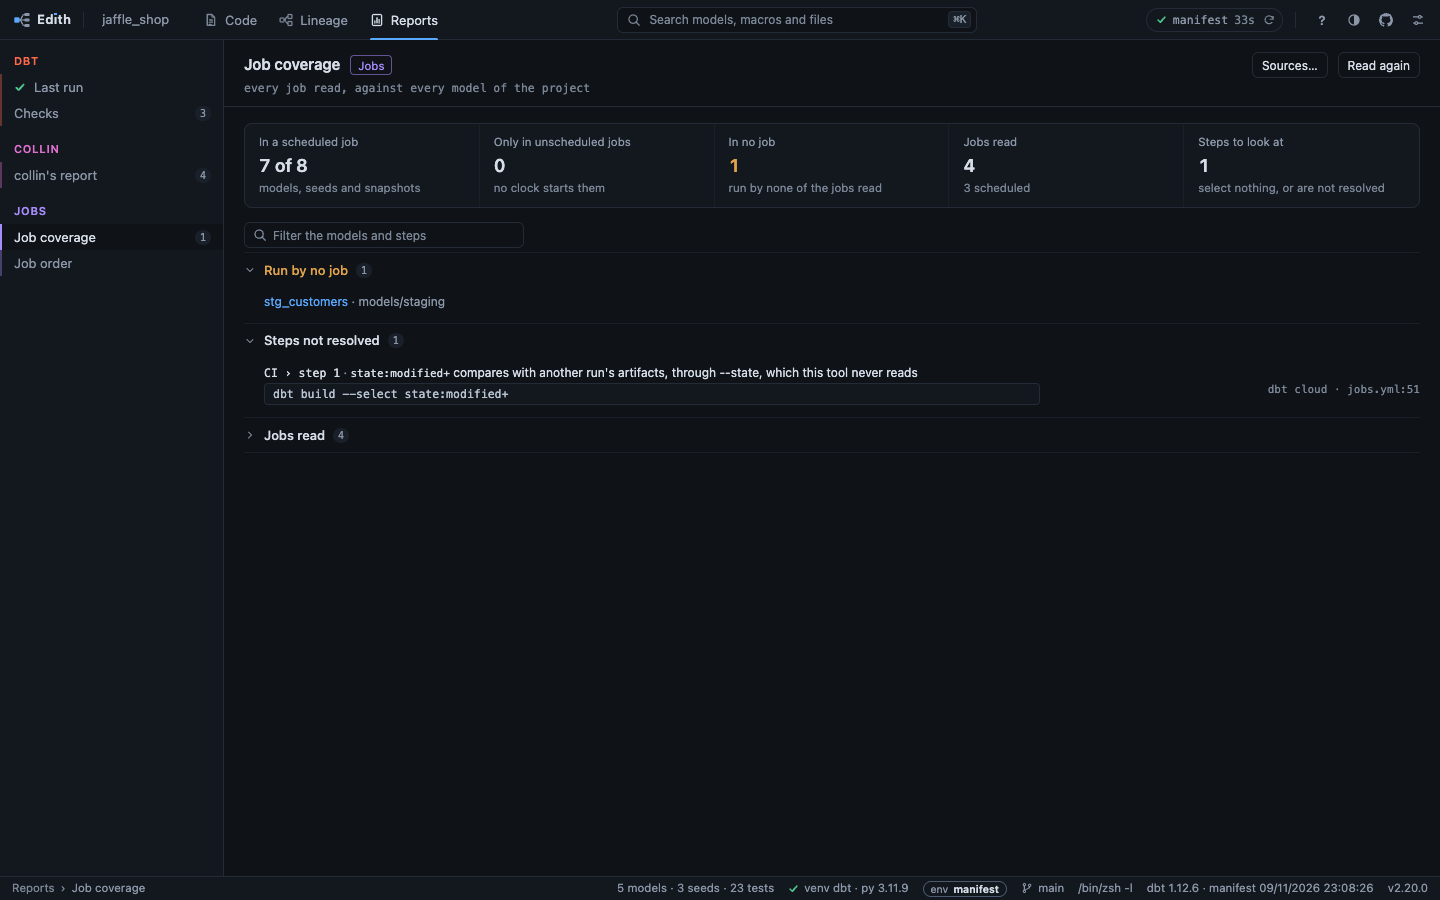
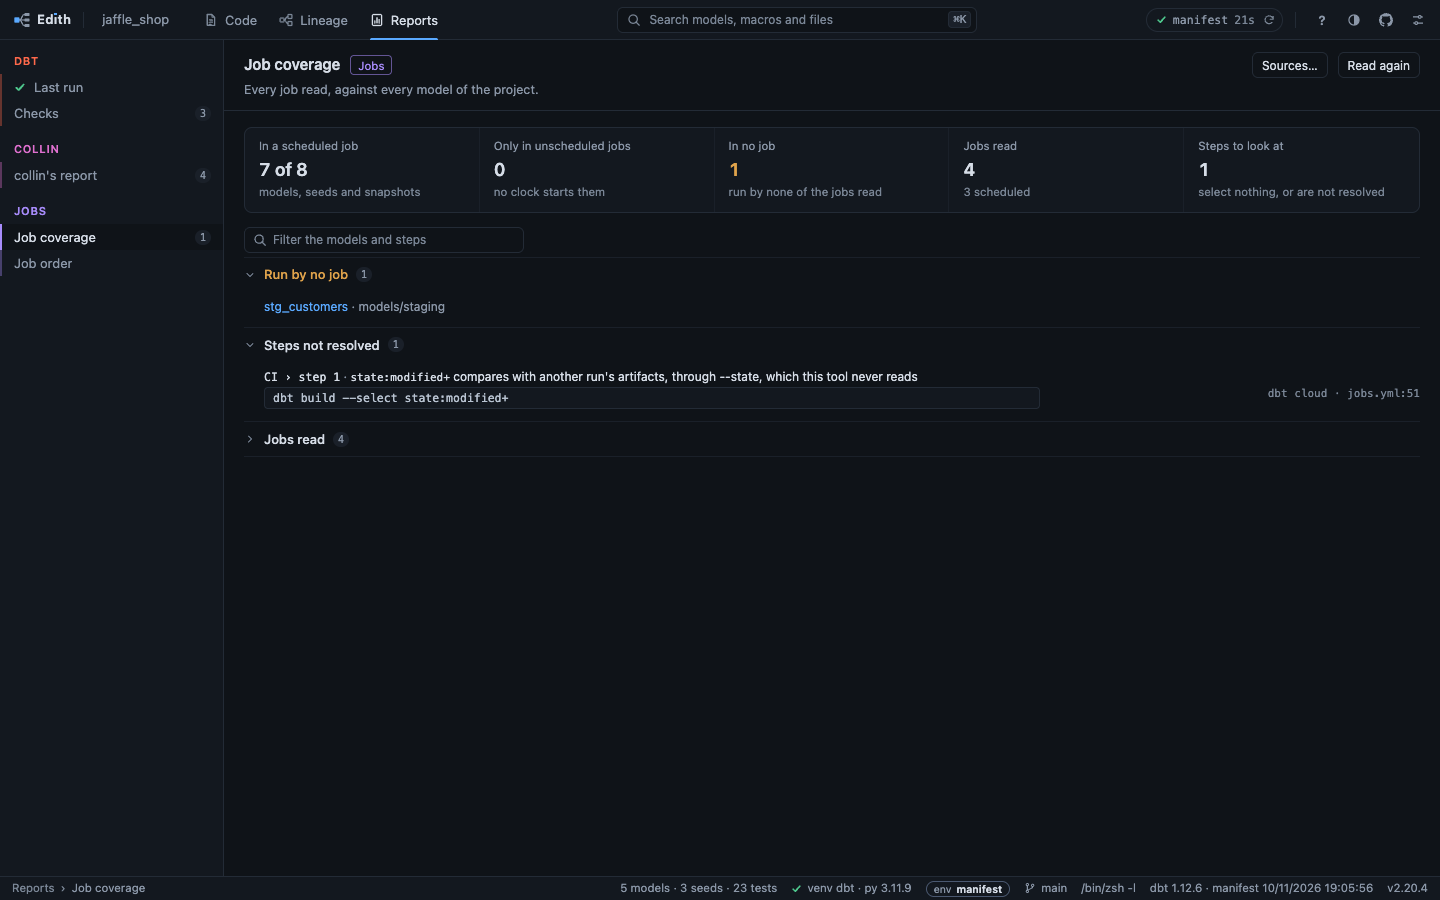
Write the job reports' head line as a sentence
The line under a Reports section's head says what the section was read
from, a path, a version or a time, in the code font. Job coverage and Job
order have no file to name: theirs is a sentence about what the section
compares, and it was written in the code font too, in lower case and
without a full stop. reportHead now takes `prose`, which writes that line
in the interface's font at the page's line height, and the two sections
give the design's sentences.

The test that decides whether a fold's count is drawn as a pill moves
into reportCounted, unchanged, so the harness reads it, with the cases a
pill and a phrase are told apart by.

diff --git a/web/app.js b/web/app.js
@@ -12816,8 +12816,10 @@ function paintReportStale() {
 }
 
 /* The head every section shares: what it is, what it was read from, and its
-   buttons, Read again saying when the file has changed since. */
-function reportHead({ title, tool, tone, about, again, extra = [] }) {
+   buttons, Read again saying when the file has changed since. The line under
+   it is mono when it says what was read (a path, a version, a time) and
+   `prose` when it is a sentence about the section. */
+function reportHead({ title, tool, tone, about, prose = false, again, extra = [] }) {
   const head = jel('div', 'rhead');
   const row = jel('div', 'rhead-row');
   row.append(jel('span', 'ttl', title));
@@ -12845,7 +12847,7 @@ function reportHead({ title, tool, tone, about, again, extra = [] }) {
   head.append(row);
   // What it was read from, on a line of its own; a section with nothing to say
   // of that has no line.
-  if (about) head.append(jel('div', 'sub', about));
+  if (about) head.append(jel('div', prose ? 'sub prose' : 'sub', about));
   return head;
 }
 
@@ -12978,6 +12980,13 @@ function reportFolderSummary(text) {
   return sum;
 }
 
+/* Whether a fold's count is a number to draw as a pill ("12", "3 of 12",
+   "1,204 of 3,000"). A phrase in its place (a macro's "used by 3 models, 2
+   tests") stays text, which a pill would squeeze. */
+function reportCounted(count) {
+  return /^\d[\d,. ]*(of \d[\d,. ]*)?$/.test(String(count || ''));
+}
+
 /* A fold as reportFiltered hands it back: its title and count, then its lever.
    Its list is the caller's, appended to it. A finding that has a severity
    (collin's) says it in a tag after the count. Opened or shut by the reader,
@@ -12987,10 +12996,7 @@ function reportFold(f) {
   d.open = f.open;
   if (f.tone) d.dataset.tone = f.tone;
   const sum = jel('summary', '');
-  // A count is a pill; a phrase in its place (a macro's "used by 3 models, 2
-  // tests") stays text, which a pill would squeeze.
-  const counted = /^\d[\d,. ]*(of \d[\d,. ]*)?$/.test(String(f.count || ''));
-  sum.append(reportChevron(), jel('span', 'rtitle', f.title), jel('span', counted ? 'tabbadge rcount' : 'rcount', f.count));
+  sum.append(reportChevron(), jel('span', 'rtitle', f.title), jel('span', reportCounted(f.count) ? 'tabbadge rcount' : 'rcount', f.count));
   if (f.severity) sum.append(jel('span', 'sevtag', f.severity));
   sum.addEventListener('click', () => { d.dataset.touched = '1'; });
   d.append(sum);
@@ -13540,7 +13546,7 @@ async function jobsCoverageSection(again) {
   const sources = jel('button', 'btn sm', 'Sources…');
   sources.title = 'Where the jobs are read from, and how';
   sources.addEventListener('click', openJobSources);
-  const head = reportHead({ title: 'Job coverage', tool: 'jobs', about: 'every job read, against every model of the project',
+  const head = reportHead({ title: 'Job coverage', tool: 'jobs', about: 'Every job read, against every model of the project.', prose: true,
     again, extra: [sources] });
   // The job files are looked at as the section opens, never on a click in it
   // (0063).
@@ -13844,7 +13850,7 @@ function jobOrderFoldList(hits, d) {
 }
 
 async function jobOrderSection(again) {
-  const head = reportHead({ title: 'Job order', tool: 'jobs', about: 'what each step builds, against what the job files order before it', again });
+  const head = reportHead({ title: 'Job order', tool: 'jobs', about: 'What each step builds, against what the job files order before it.', prose: true, again });
   // The job files are looked at as the section opens, never on a click in it
   // (0063).
   let order;

diff --git a/web/tests/reports.js b/web/tests/reports.js
@@ -409,3 +409,20 @@ var withAbout = reportHead({ title: 'T', tool: 'dbt', about: 'read from run_resu
 check('what it was read from is a line of its own under the row, with a rule under the head',
   [withAbout.className, withAbout.children.map(function (c) { return c.className; }), withAbout.children[1].textContent], ['rhead', ['rhead-row', 'sub'], 'read from run_results.json']);
 check('a section with nothing to say of that has no line, and none is made up', reportHead({ title: 'T', tool: 'dbt' }).children.length, 1);
+check('a sentence about the section is a prose line; what was read stays the plain mono one',
+  [reportHead({ title: 'T', tool: 'jobs', about: 'A sentence.', prose: true }).children[1].className, withAbout.children[1].className], ['sub prose', 'sub']);
+// The two callers cannot be run here (they read the job files), so their source is pinned.
+function callerSource(name) { var at = app.indexOf('async function ' + name); return app.slice(at, app.indexOf('\nasync function ', at + 1) < 0 ? undefined : app.indexOf('\nasync function ', at + 1)); }
+check('Job coverage and Job order each ask for the prose line',
+  ['jobsCoverageSection', 'jobOrderSection'].map(function (n) { return /reportHead\(\{[^}]*prose: true/.test(callerSource(n)); }), [true, true]);
+var proseRule = /\.rhead \.sub\.prose \{[^}]*font:[^;}]*var\(--ui\)/.test(read('web/app.css'));
+check('the prose line is drawn in the UI font', proseRule, true);
+check('prose without a line says nothing', reportHead({ title: 'T', tool: 'jobs', prose: true }).children.length, 1);
+
+print('\n--- a fold\'s count: a pill or text ---');
+eval(app.slice(app.indexOf('function reportCounted'), app.indexOf('/* A fold as reportFiltered')));
+check('a number, a thousands separator (comma or space) and "n of m" are pills',
+  ['12', '0', '1,234', '1 234', '3 of 12', '1,204 of 3,000'].map(reportCounted), [true, true, true, true, true, true]);
+check('the number 7, not a string, is a pill', reportCounted(7), true);
+check('a phrase, words after the number, nothing, or "of" first stay text',
+  ['used by 3 models, 2 tests', '3 models', '', undefined, 'of 3'].map(reportCounted), [false, false, false, false, false]);

diff --git a/web/app.css b/web/app.css
@@ -1831,6 +1831,8 @@ kbd {
 .rhead-row { display: flex; align-items: center; gap: 10px; }
 .rhead .ttl { font-size: 15px; font-weight: 600; }
 .rhead .sub { margin-top: 3px; font: 11.5px var(--mono); color: var(--fg-mute); overflow-wrap: anywhere; }
+/* A sentence about the section, not what was read: the UI font. */
+.rhead .sub.prose { font: 12.5px/1.45 var(--ui); color: var(--fg-dim); }
 .rhead .btn, .rhead .btn.sm {
   display: inline-flex; align-items: center; gap: 6px; height: 26px; padding: 0 9px; border-radius: 6px;
   background: none; font-size: 12px; white-space: nowrap;

diff --git a/docs/state.md b/docs/state.md
@@ -3275,9 +3275,11 @@ of its own, and each panel updates the tour, its page under
       is a link, not a chip.
     - The rail is 224px for the settings' too, which shares `.reports-navrow`
       and its rules: its rows keep their own height, gap and accent rule.
-    - The mono line under a head is one line of `about` whatever the section;
-      the board draws Job coverage's and Job order's in the UI font.
-    - No test covers the regular expression that finds the count pills.
+    - ~~The mono line under a head is one line of `about` whatever the section;
+      the board draws Job coverage's and Job order's in the UI font.~~ Fixed in
+      2.20.4: those two are the board's sentences, in the UI font.
+    - ~~No test covers the regular expression that finds the count pills.~~
+      Fixed in 2.20.4: `reportCounted`, in `web/tests/reports.js`.
 53. **The Compiled tab's limits (0164, 2.18.0).**
     - The age is said as the manifest card says it, so a file a few days old
       reads `Compiled 2 d ago` and one a few hours old `Compiled 3h07 ago`; the

diff --git a/CHANGELOG.md b/CHANGELOG.md
@@ -13,6 +13,11 @@ points at the decision behind it. A version's date is the day its bump merged,
 which tags and releases it with its section here as the notes (0045): the
 newest dated heading has to be the version `Cargo.toml` names.
 
+## 2.20.4 - 2026-11-10
+
+- Write Job coverage's and Job order's line under their head as a sentence in
+  the interface's font, as the design draws them.
+
 ## 2.20.3 - 2026-11-10
 
 - Widen the Catalog's column filter with its count while a word is typed, so
